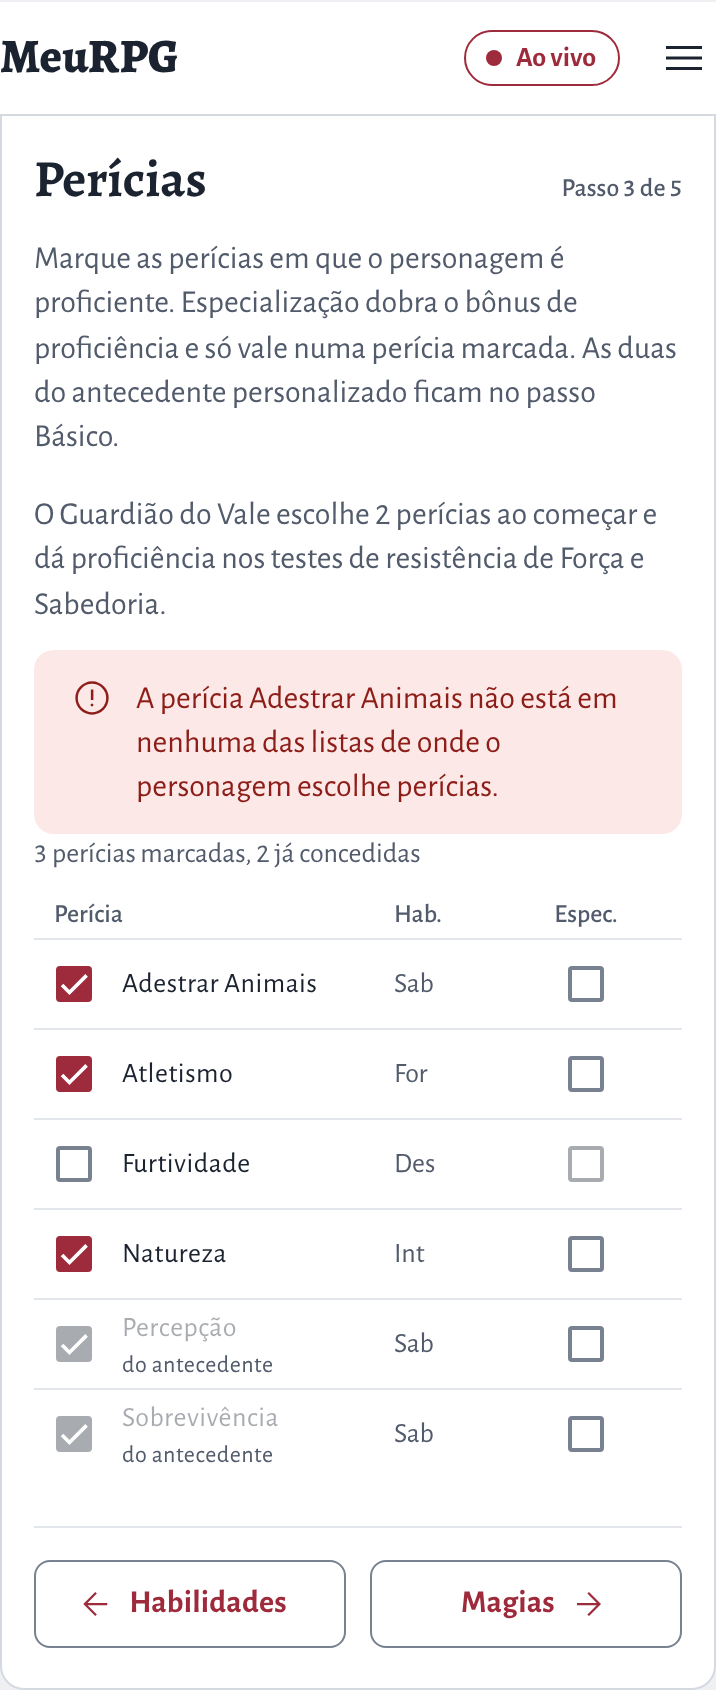
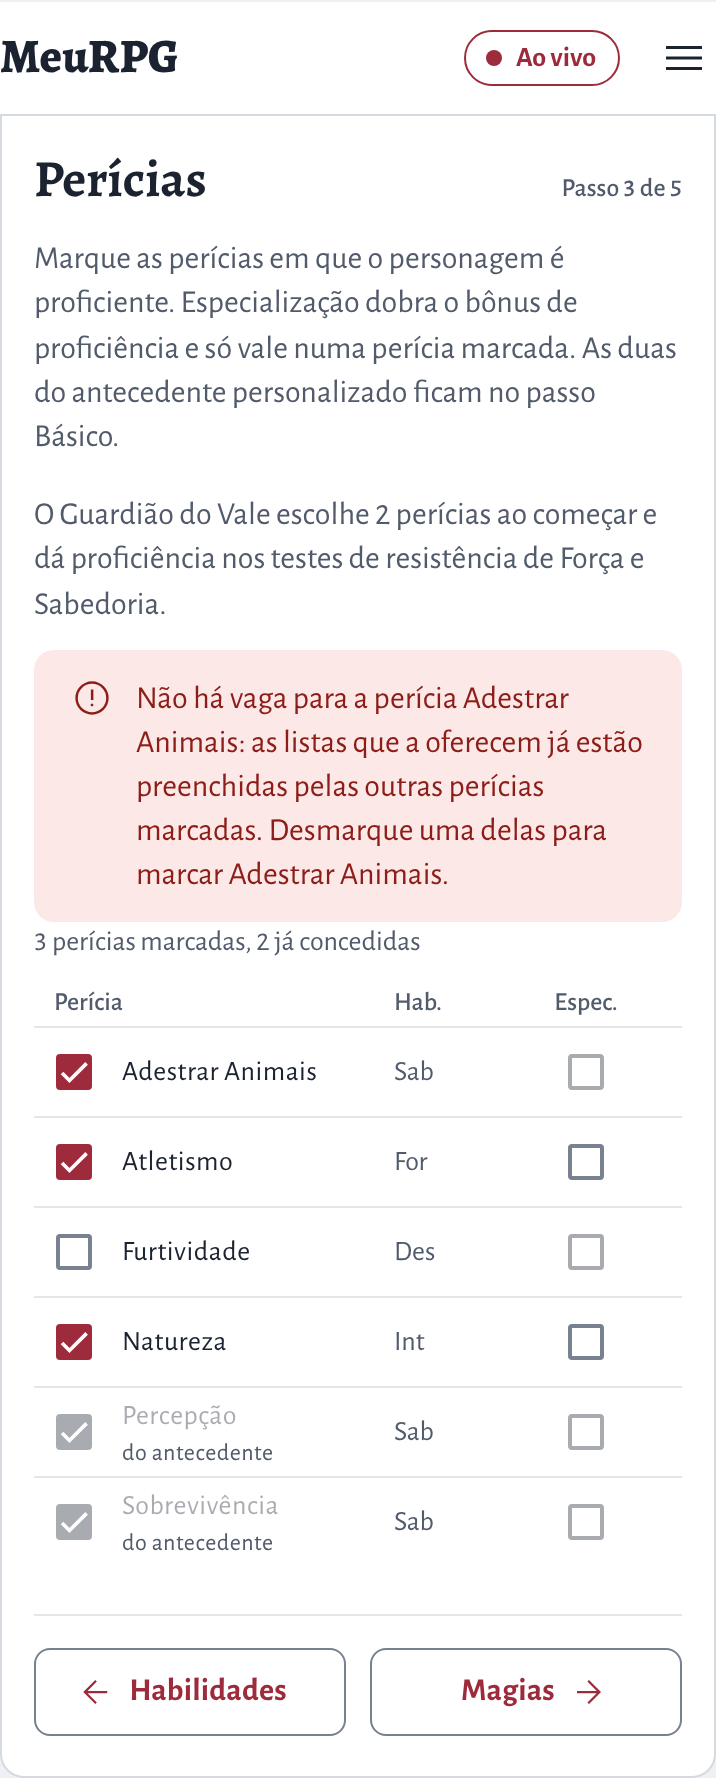
Retake the refusal shots with the new sentence and add the expertise cut (574 part D a)

diff --git a/574-pericias-das-listas/README.md b/574-pericias-das-listas/README.md
@@ -2,21 +2,27 @@
 
 Crop: the stepper (tabs and the open step). 2x scale. Widths 390, 768, 1280; light and dark.
 
-- `1-assistente-lista-cortada-1280-dark.png`: Wizard (new sheet), Perícias step with the list cut to what the sheet's sources allow (the table class's six skills and the trait's one; no Acrobacia).
-- `1-assistente-lista-cortada-1280-light.png`: Wizard (new sheet), Perícias step with the list cut to what the sheet's sources allow (the table class's six skills and the trait's one; no Acrobacia).
-- `1-assistente-lista-cortada-390-dark.png`: Wizard (new sheet), Perícias step with the list cut to what the sheet's sources allow (the table class's six skills and the trait's one; no Acrobacia).
-- `1-assistente-lista-cortada-390-light.png`: Wizard (new sheet), Perícias step with the list cut to what the sheet's sources allow (the table class's six skills and the trait's one; no Acrobacia).
-- `1-assistente-lista-cortada-768-dark.png`: Wizard (new sheet), Perícias step with the list cut to what the sheet's sources allow (the table class's six skills and the trait's one; no Acrobacia).
-- `1-assistente-lista-cortada-768-light.png`: Wizard (new sheet), Perícias step with the list cut to what the sheet's sources allow (the table class's six skills and the trait's one; no Acrobacia).
-- `2-recusa-na-etapa-1280-dark.png`: Sheet editor, Perícias step after a save the server refused: a pick the sources cannot hold together, with the server's sentence on the step.
-- `2-recusa-na-etapa-1280-light.png`: Sheet editor, Perícias step after a save the server refused: a pick the sources cannot hold together, with the server's sentence on the step.
-- `2-recusa-na-etapa-390-dark.png`: Sheet editor, Perícias step after a save the server refused: a pick the sources cannot hold together, with the server's sentence on the step.
-- `2-recusa-na-etapa-390-light.png`: Sheet editor, Perícias step after a save the server refused: a pick the sources cannot hold together, with the server's sentence on the step.
-- `2-recusa-na-etapa-768-dark.png`: Sheet editor, Perícias step after a save the server refused: a pick the sources cannot hold together, with the server's sentence on the step.
-- `2-recusa-na-etapa-768-light.png`: Sheet editor, Perícias step after a save the server refused: a pick the sources cannot hold together, with the server's sentence on the step.
+- `1-assistente-lista-cortada-1280-dark.png`: Wizard (new sheet), Perícias step with the list cut to what the sheet's sources allow (the table class's six skills; no Acrobacia).
+- `1-assistente-lista-cortada-1280-light.png`: Wizard (new sheet), Perícias step with the list cut to what the sheet's sources allow (the table class's six skills; no Acrobacia).
+- `1-assistente-lista-cortada-390-dark.png`: Wizard (new sheet), Perícias step with the list cut to what the sheet's sources allow (the table class's six skills; no Acrobacia).
+- `1-assistente-lista-cortada-390-light.png`: Wizard (new sheet), Perícias step with the list cut to what the sheet's sources allow (the table class's six skills; no Acrobacia).
+- `1-assistente-lista-cortada-768-dark.png`: Wizard (new sheet), Perícias step with the list cut to what the sheet's sources allow (the table class's six skills; no Acrobacia).
+- `1-assistente-lista-cortada-768-light.png`: Wizard (new sheet), Perícias step with the list cut to what the sheet's sources allow (the table class's six skills; no Acrobacia).
+- `2-recusa-na-etapa-1280-dark.png`: Sheet editor, Perícias step after a refused save: a skill that is on a list but has no room, with the server's sentence on the step, the step marked, and the pointer above the buttons.
+- `2-recusa-na-etapa-1280-light.png`: Sheet editor, Perícias step after a refused save: a skill that is on a list but has no room, with the server's sentence on the step, the step marked, and the pointer above the buttons.
+- `2-recusa-na-etapa-390-dark.png`: Sheet editor, Perícias step after a refused save: a skill that is on a list but has no room, with the server's sentence on the step, the step marked, and the pointer above the buttons.
+- `2-recusa-na-etapa-390-light.png`: Sheet editor, Perícias step after a refused save: a skill that is on a list but has no room, with the server's sentence on the step, the step marked, and the pointer above the buttons.
+- `2-recusa-na-etapa-768-dark.png`: Sheet editor, Perícias step after a refused save: a skill that is on a list but has no room, with the server's sentence on the step, the step marked, and the pointer above the buttons.
+- `2-recusa-na-etapa-768-light.png`: Sheet editor, Perícias step after a refused save: a skill that is on a list but has no room, with the server's sentence on the step, the step marked, and the pointer above the buttons.
 - `3-ficha-guardada-com-pericia-sem-lista-1280-dark.png`: Sheet editor on a stored sheet whose held skill (Furtividade) no list allows any more: still ticked, enabled, no mark.
 - `3-ficha-guardada-com-pericia-sem-lista-1280-light.png`: Sheet editor on a stored sheet whose held skill (Furtividade) no list allows any more: still ticked, enabled, no mark.
 - `3-ficha-guardada-com-pericia-sem-lista-390-dark.png`: Sheet editor on a stored sheet whose held skill (Furtividade) no list allows any more: still ticked, enabled, no mark.
 - `3-ficha-guardada-com-pericia-sem-lista-390-light.png`: Sheet editor on a stored sheet whose held skill (Furtividade) no list allows any more: still ticked, enabled, no mark.
 - `3-ficha-guardada-com-pericia-sem-lista-768-dark.png`: Sheet editor on a stored sheet whose held skill (Furtividade) no list allows any more: still ticked, enabled, no mark.
 - `3-ficha-guardada-com-pericia-sem-lista-768-light.png`: Sheet editor on a stored sheet whose held skill (Furtividade) no list allows any more: still ticked, enabled, no mark.
+- `4-especializacao-cortada-1280-dark.png`: Sheet editor, Perícias step with the expertise list cut: the boxes of Atletismo and Natureza are on, the others (Furtividade, Adestrar Animais) are off.
+- `4-especializacao-cortada-1280-light.png`: Sheet editor, Perícias step with the expertise list cut: the boxes of Atletismo and Natureza are on, the others (Furtividade, Adestrar Animais) are off.
+- `4-especializacao-cortada-390-dark.png`: Sheet editor, Perícias step with the expertise list cut: the boxes of Atletismo and Natureza are on, the others (Furtividade, Adestrar Animais) are off.
+- `4-especializacao-cortada-390-light.png`: Sheet editor, Perícias step with the expertise list cut: the boxes of Atletismo and Natureza are on, the others (Furtividade, Adestrar Animais) are off.
+- `4-especializacao-cortada-768-dark.png`: Sheet editor, Perícias step with the expertise list cut: the boxes of Atletismo and Natureza are on, the others (Furtividade, Adestrar Animais) are off.
+- `4-especializacao-cortada-768-light.png`: Sheet editor, Perícias step with the expertise list cut: the boxes of Atletismo and Natureza are on, the others (Furtividade, Adestrar Animais) are off.
